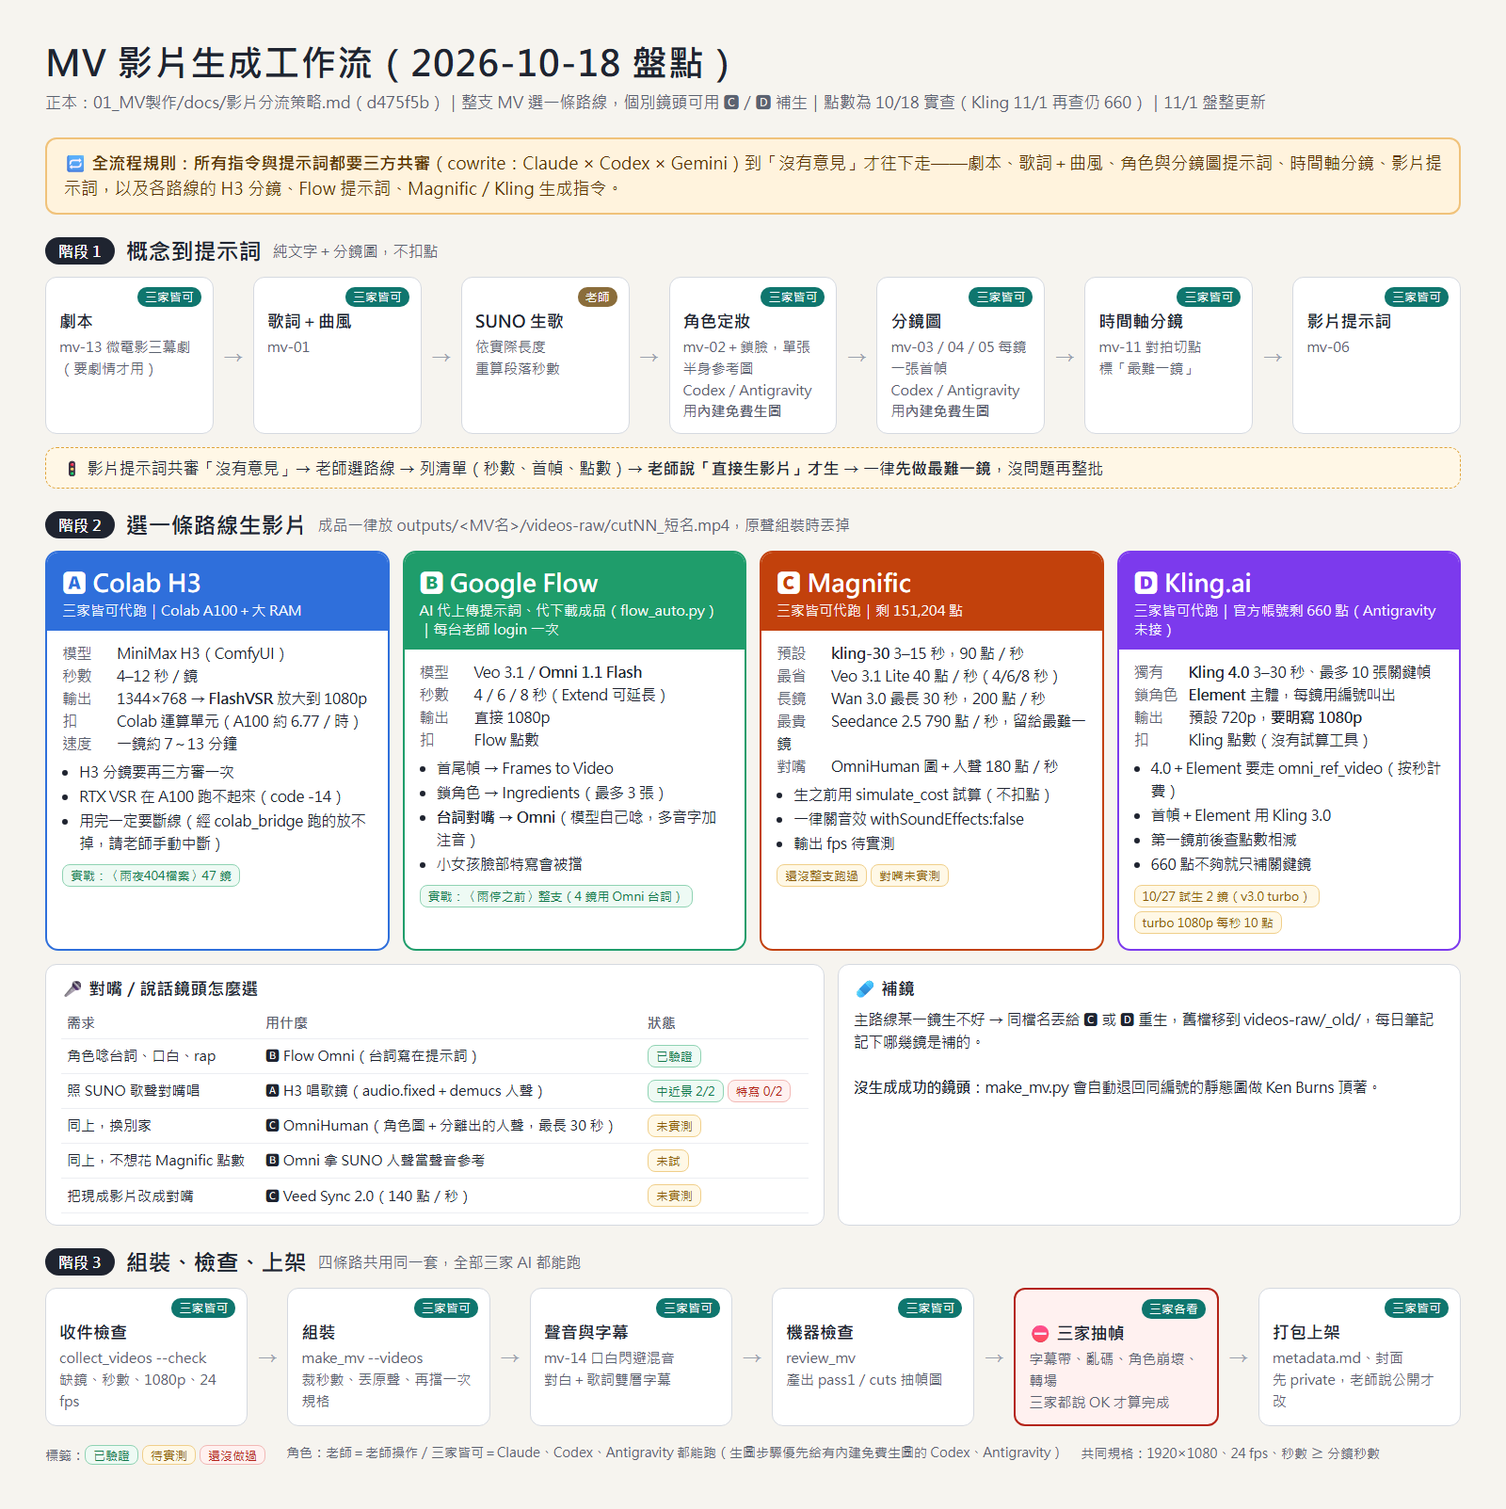
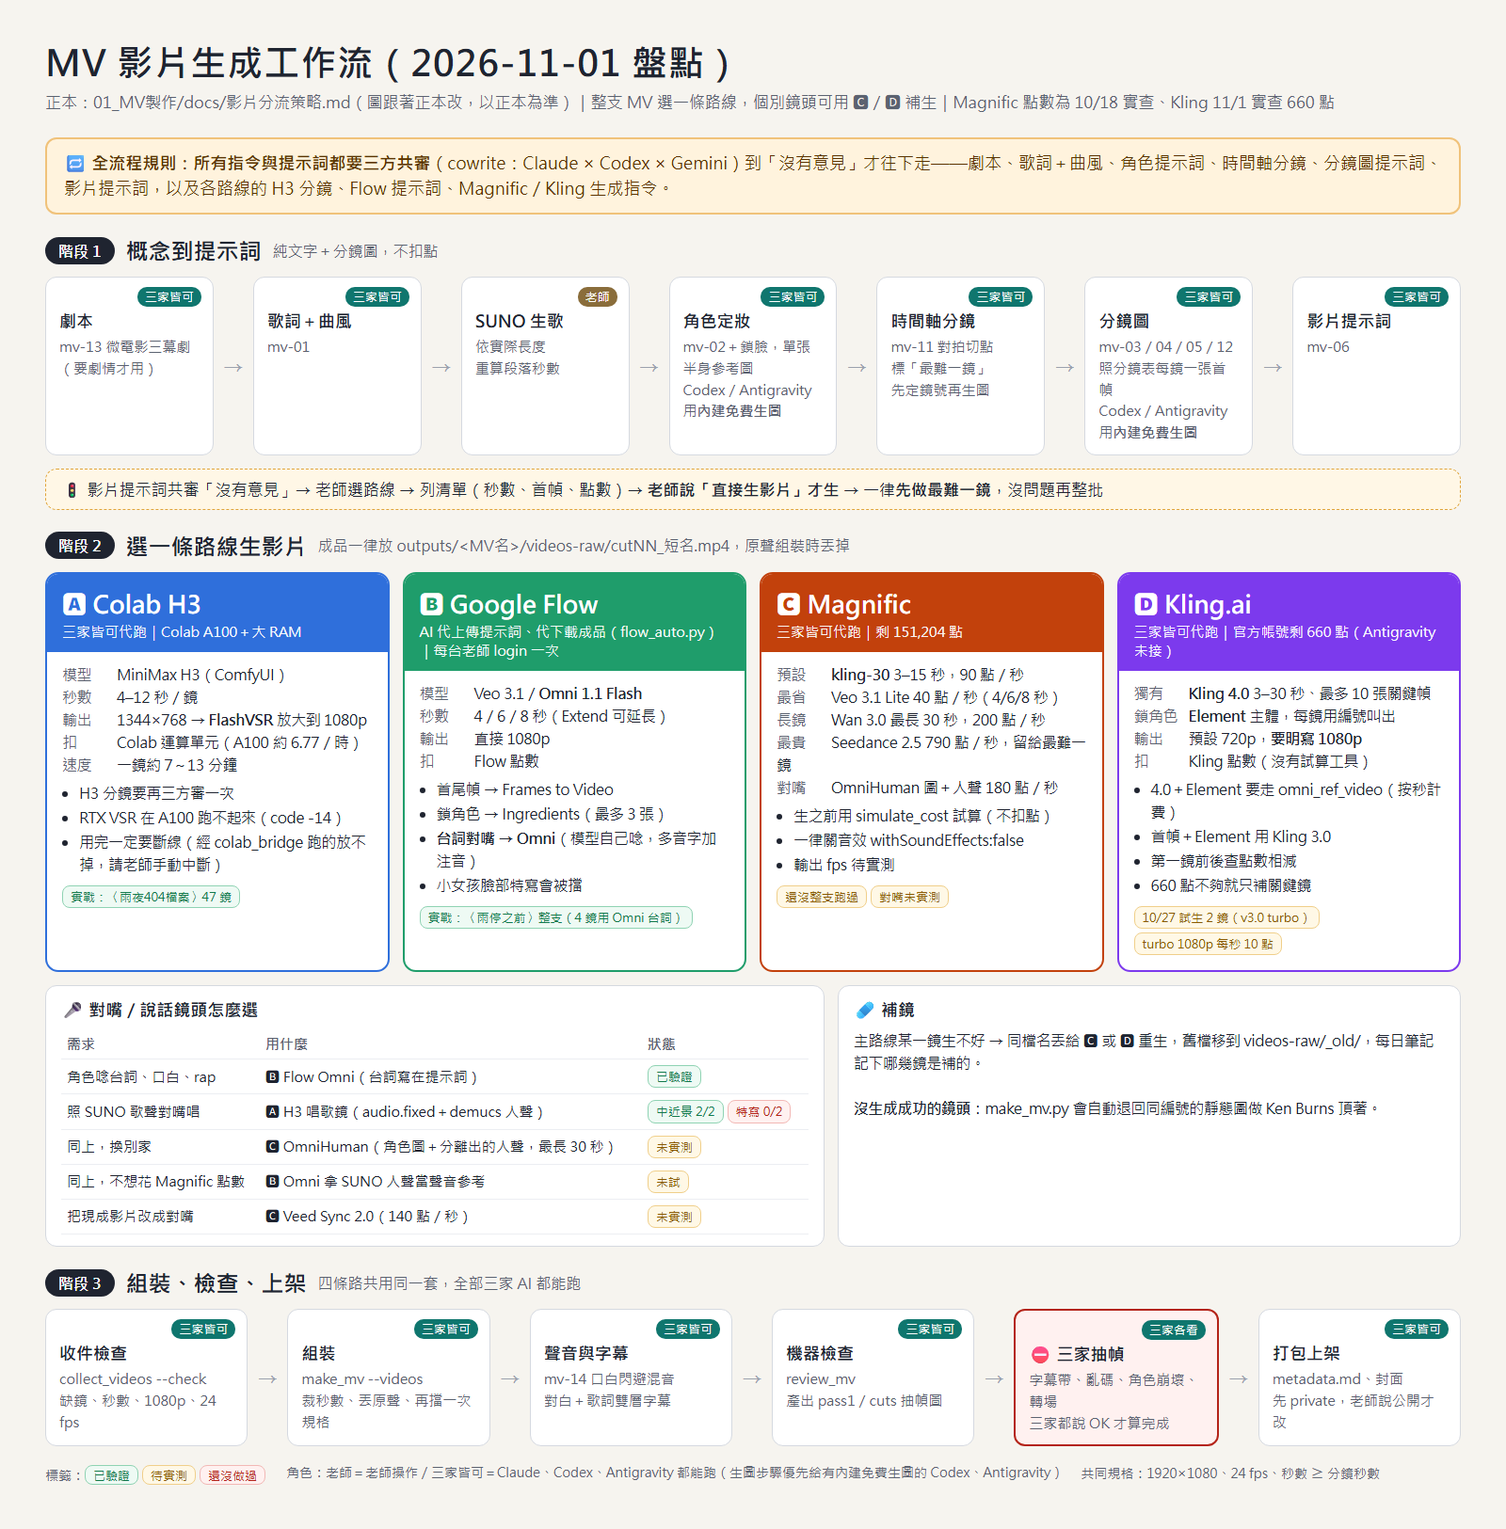
統一「先定分鏡表再生分鏡圖」，並修盤點剩下的 5 個小問題
- 順序（2026-11-01 老師定）：主角造型 → 時間軸分鏡表 → 分鏡圖 → 影片提示詞；分流策略、README、流程圖、MV_WORKFLOW_GUIDE 一起改
- 專案範本補 8🅲 Magnific、8🅳 Kling.ai 兩列
- AGENTS.md：MV_11 輸出 storyboard_vN.md 三支腳本共用；MV_12 檔名改 cutNN_*
- 分流策略：MCP 機器清單只寫實查過的（家裡用筆電 11-01 已連上），其他台標未查
- 流程圖：標題改 11-01 盤點、拿掉會過期的 commit 編號，重產 PNG

diff --git a/docs/影片生成工作流.html b/docs/影片生成工作流.html
@@ -49,18 +49,18 @@ th{color:var(--sub);font-weight:600}
 .legend{margin-top:18px;color:var(--sub);font-size:14px;display:flex;gap:18px;flex-wrap:wrap}
 </style></head><body><div class="wrap">
 
-<h1>MV 影片生成工作流（2026-10-18 盤點）</h1>
-<div class="meta">正本：01_MV製作/docs/影片分流策略.md（d475f5b）｜整支 MV 選一條路線，個別鏡頭可用 🅲／🅳 補生｜點數為 10/18 實查（Kling 11/1 再查仍 660）｜11/1 盤整更新</div>
+<h1>MV 影片生成工作流（2026-11-01 盤點）</h1>
+<div class="meta">正本：01_MV製作/docs/影片分流策略.md（圖跟著正本改，以正本為準）｜整支 MV 選一條路線，個別鏡頭可用 🅲／🅳 補生｜Magnific 點數為 10/18 實查、Kling 11/1 實查 660 點</div>
 
-<div class="rule">🔁 <b>全流程規則：所有指令與提示詞都要三方共審</b>（cowrite：Claude × Codex × Gemini）到「沒有意見」才往下走——劇本、歌詞＋曲風、角色與分鏡圖提示詞、時間軸分鏡、影片提示詞，以及各路線的 H3 分鏡、Flow 提示詞、Magnific／Kling 生成指令。</div>
+<div class="rule">🔁 <b>全流程規則：所有指令與提示詞都要三方共審</b>（cowrite：Claude × Codex × Gemini）到「沒有意見」才往下走——劇本、歌詞＋曲風、角色提示詞、時間軸分鏡、分鏡圖提示詞、影片提示詞，以及各路線的 H3 分鏡、Flow 提示詞、Magnific／Kling 生成指令。</div>
 <div class="stage"><span class="no">階段 1</span><span class="t">概念到提示詞</span><span class="s">純文字＋分鏡圖，不扣點</span></div>
 <div class="row">
   <div class="step"><span class="who m">三家皆可</span><b>劇本</b><span>mv-13 微電影三幕劇<br>（要劇情才用）</span></div><div class="arrow">→</div>
   <div class="step"><span class="who m">三家皆可</span><b>歌詞＋曲風</b><span>mv-01</span></div><div class="arrow">→</div>
   <div class="step"><span class="who t">老師</span><b>SUNO 生歌</b><span>依實際長度<br>重算段落秒數</span></div><div class="arrow">→</div>
   <div class="step"><span class="who m">三家皆可</span><b>角色定妝</b><span>mv-02＋鎖臉，單張半身參考圖<br>Codex／Antigravity 用<b style="display:inline;font-size:15px;margin:0">內建免費生圖</b></span></div><div class="arrow">→</div>
-  <div class="step"><span class="who m">三家皆可</span><b>分鏡圖</b><span>mv-03／04／05 每鏡一張首幀<br>Codex／Antigravity 用<b style="display:inline;font-size:15px;margin:0">內建免費生圖</b></span></div><div class="arrow">→</div>
-  <div class="step"><span class="who m">三家皆可</span><b>時間軸分鏡</b><span>mv-11 對拍切點<br>標「最難一鏡」</span></div><div class="arrow">→</div>
+  <div class="step"><span class="who m">三家皆可</span><b>時間軸分鏡</b><span>mv-11 對拍切點<br>標「最難一鏡」<br>先定鏡號再生圖</span></div><div class="arrow">→</div>
+  <div class="step"><span class="who m">三家皆可</span><b>分鏡圖</b><span>mv-03／04／05／12 照分鏡表每鏡一張首幀<br>Codex／Antigravity 用<b style="display:inline;font-size:15px;margin:0">內建免費生圖</b></span></div><div class="arrow">→</div>
   <div class="step"><span class="who m">三家皆可</span><b>影片提示詞</b><span>mv-06</span></div>
 </div>
 <div class="gate">🚦 影片提示詞共審「沒有意見」→ 老師選路線 → 列清單（秒數、首幀、點數）→ <b>老師說「直接生影片」才生</b> → 一律<b>先做最難一鏡</b>，沒問題再整批</div>

diff --git a/.claude/skills/MV_WORKFLOW_GUIDE/SKILL.md b/.claude/skills/MV_WORKFLOW_GUIDE/SKILL.md
@@ -26,21 +26,23 @@ author: 羅東國小資訊組長
 | 1⃣ | **MV_01** 歌詞與曲風構思 | 創作歌詞、風格描述 | Claude | 30-60 分 |
 | 2⃣ | **（使用者自己做）** | 在 SUNO 生成音樂，拿到歌後依實際長度重算秒數 | SUNO 官網 | 30-60 分 |
 | 3⃣ | **MV_02** 主角造型設計 | 設計角色、主場景與信物錨點 | Claude | 20-40 分 |
-| 4⃣ | **MV_03** 影像提示詞生成 | 撰寫場景描述 | Claude | 20-30 分 |
-| 5⃣ | **MV_04** 九宮格分鏡設計 | 生成 9 張分鏡圖 | Claude | 30-45 分 |
-| 6⃣ | **MV_05** 截圖放大提質 | 選擇和放大重點 | Claude | 10-20 分 |
-| 7⃣ | **MV_06** 影片提示詞生成 | 靜態→動態效果（含正反打視線配對） | Claude | 20-30 分 |
-| 8⃣ | **影片分流**（🅰／🅱／🅲／🅳） | 生影片：整支選一條路線，難鏡可用 🅲／🅳 補生 | 看 `docs/影片分流策略.md`（唯一正本） | 依路線與鏡數 |
-| 9⃣ | **MV_07** Q 版圖片設計 | 簡報或周邊插圖 | Claude+AI | 15-25 分（可選） |
-| 🔟 | **MV_08** 空拍圖與運鏡生成 | 無人機視角和運鏡 | Claude+AI | 20-30 分（可選） |
-| 1⃣1⃣ | **MV_09** Google Flow 微電影 | 首尾幀無縫轉場 | Claude+工具 | 25-35 分（可選） |
-| 1⃣2⃣ | **MV_10** 電影感打光指令集 | 參考打光風格 | 參考表 | 自選 |
-| 1⃣3⃣ | **MV_11** 時間軸分鏡腳本 | 依歌詞與能量切分鏡（含片頭/片尾戲） | Whisper＋ffmpeg | 20-40 分 |
-| 1⃣4⃣ | **MV_12** 分鏡批次生圖 | 先試 1–2 鏡，再整批生圖 | Cloudflare／Pollinations | 10-30 分 |
-| 1⃣5⃣ | **MV_14** 微電影聲音設計與混音 | 口白 TTS、CC0 環境音、Ducking 閃避混音 | TTS＋ffmpeg | 20-30 分（微電影必選） |
-| 1⃣6⃣ | **交件前檢查與組裝** | `collect_videos.py --check` → `make_mv.py` → `review_mv.py` | 三支共用同一份分鏡表 | 30-60 分 |
-| 1⃣6⃣⛔ | **抽幀停損點** | 三家各自開 `review/` 兩張圖親眼看，都說 OK 才算完成 | Claude／Codex／Antigravity | 視鏡數 |
-| 1⃣7⃣ | **YouTube 發布工具** | 準備上傳資料；取得當次同意後才上傳 | 已驗證的上傳管道 | 視處理時間而定 |
+| 4⃣ | **MV_11** 時間軸分鏡腳本 | 依歌詞與能量切分鏡（含片頭/片尾戲） | Whisper＋ffmpeg | 20-40 分 |
+| 5⃣ | **MV_03** 影像提示詞生成 | 撰寫場景描述 | Claude | 20-30 分 |
+| 6⃣ | **MV_04** 九宮格分鏡設計 | 生成 9 張分鏡圖 | Claude | 30-45 分 |
+| 7⃣ | **MV_12** 分鏡批次生圖 | 先試 1–2 鏡，再整批生圖 | Cloudflare／Pollinations | 10-30 分 |
+| 8⃣ | **MV_05** 截圖放大提質 | 選擇和放大重點 | Claude | 10-20 分 |
+| 9⃣ | **MV_06** 影片提示詞生成 | 靜態→動態效果（含正反打視線配對） | Claude | 20-30 分 |
+| 🔟 | **影片分流**（🅰／🅱／🅲／🅳） | 生影片：整支選一條路線，難鏡可用 🅲／🅳 補生 | 看 `docs/影片分流策略.md`（唯一正本） | 依路線與鏡數 |
+| 1⃣1⃣ | **MV_14** 微電影聲音設計與混音 | 口白 TTS、CC0 環境音、Ducking 閃避混音 | TTS＋ffmpeg | 20-30 分（微電影必選） |
+| 1⃣2⃣ | **交件前檢查與組裝** | `collect_videos.py --check` → `make_mv.py` → `review_mv.py` | 三支共用同一份分鏡表 | 30-60 分 |
+| 1⃣2⃣⛔ | **抽幀停損點** | 三家各自開 `review/` 兩張圖親眼看，都說 OK 才算完成 | Claude／Codex／Antigravity | 視鏡數 |
+| 1⃣3⃣ | **YouTube 發布工具** | 準備上傳資料；取得當次同意後才上傳 | 已驗證的上傳管道 | 視處理時間而定 |
+| ➕ | **MV_07** Q 版圖片設計 | 簡報或周邊插圖 | Claude+AI | 15-25 分（可選） |
+| ➕ | **MV_08** 空拍圖與運鏡生成 | 無人機視角和運鏡 | Claude+AI | 20-30 分（可選） |
+| ➕ | **MV_09** Google Flow 微電影 | 首尾幀無縫轉場 | Claude+工具 | 25-35 分（可選） |
+| ➕ | **MV_10** 電影感打光指令集 | 參考打光風格 | 參考表 | 自選 |
+
+> 表格依現行順序排（2026-11-01 老師定：**先定時間軸分鏡表，再生分鏡圖**）：主角造型 → 時間軸分鏡表 → 分鏡圖 → 影片提示詞 → 影片分流 → 交件；➕ 是可選或參考用模組，不在主線上。
 
 > MV_11 + MV_12 是「Ken Burns 靜圖 MV」快速路線：歌曲 → 時間軸分鏡 → 免費批次生圖 → ffmpeg 組裝，
 > 全程零生圖費用，適合校園歌曲、畢業歌等輕量專案。組裝用 `scripts/make_mv.py`（01_MV製作 專案內）；素材與成品放 01_MV製作 `outputs/<MV名>/`。
@@ -63,8 +65,8 @@ author: 羅東國小資訊組長
 2. 用 **MV_01** 創作歌詞與 SUNO 英文曲風描述
 3. **由使用者自己在 SUNO 生成音樂**；拿到歌之後依實際長度重算各段秒數
 4. 用 **MV_02** 設計主角造型（產出一致性參考詞；另出**單張半身參考圖**當角色參考，不要用左右分割定妝圖）
-5. 用 **MV_03** 寫場景影像提示詞 → **MV_04** 各自生成 9 張分鏡圖 → **MV_05** 挑重點放大（放大方式照 MV_05 的分流表選，代選前先問使用者）
-6. 用 **MV_11** 產出 `outputs/<MV名>/storyboard_vN.md`（**所有腳本共用這一份，不要各自改秒數**），並標出「最難一鏡」
+5. 用 **MV_11** 產出 `outputs/<MV名>/storyboard_vN.md`（**所有腳本共用這一份，不要各自改秒數**），並標出「最難一鏡」（**先定分鏡表再生圖**，鏡號 `cutNN` 從這裡來）
+6. 用 **MV_03** 寫場景影像提示詞 → **MV_04**／**MV_12** 照分鏡表逐鏡生成分鏡圖（檔名 `cutNN_*`） → **MV_05** 挑重點放大（放大方式照 MV_05 的分流表選，代選前先問使用者）
 7. 用 **MV_06** 寫影片提示詞 → **cowrite 審核模式**跑到三家「無意見」，再交給使用者看過
 8. **選一條影片分流路線**（整支 MV 選一條，個別難鏡可用 🅲／🅳 補生）：
    🅰 Colab H3／🅱 Google Flow（`flow_auto.py`）／🅲 Magnific／🅳 Kling.ai

diff --git a/docs/影片分流策略.md b/docs/影片分流策略.md
@@ -13,7 +13,7 @@
 
 ## 全流程規則：所有指令與提示詞都三方共審（2026-10-18 老師定）
 
-整個工作流**每一步產出的指令與提示詞**，都要用 cowrite 三方共審（Claude × Codex × Gemini）到「沒有意見」才往下走：劇本、歌詞＋曲風、角色與分鏡圖的生圖提示詞、時間軸分鏡、影片提示詞，以及各路線的 H3 分鏡（🅰）、Flow 提示詞（🅱）、Magnific／Kling 的生成指令（🅲／🅳）。共審完還是要交給老師看過才生成。
+整個工作流**每一步產出的指令與提示詞**，都要用 cowrite 三方共審（Claude × Codex × Gemini）到「沒有意見」才往下走：劇本、歌詞＋曲風、角色的生圖提示詞、時間軸分鏡、分鏡圖的生圖提示詞、影片提示詞，以及各路線的 H3 分鏡（🅰）、Flow 提示詞（🅱）、Magnific／Kling 的生成指令（🅲／🅳）。共審完還是要交給老師看過才生成。
 
 ## 生影片之前，誰來跑（2026-10-18 老師定）
 
@@ -21,8 +21,10 @@
 |---|---|---|
 | 劇本（mv-13）、歌詞＋曲風（mv-01） | Claude／Codex／Antigravity 皆可 | |
 | SUNO 生歌 | 老師 | 生完依實際長度重算段落秒數 |
-| 角色定妝（mv-02）、分鏡圖（mv-03／04／05） | Claude／Codex／Antigravity 皆可 | 要生圖的步驟**優先給 Codex、Antigravity**，它們有內建的免費生圖；Claude 照舊走免費管道（Cloudflare → Pollinations → Vertex） |
-| 時間軸分鏡（mv-11）、影片提示詞（mv-06） | Claude／Codex／Antigravity 皆可 | |
+| 角色定妝（mv-02） | Claude／Codex／Antigravity 皆可 | 要生圖的步驟**優先給 Codex、Antigravity**，它們有內建的免費生圖；Claude 照舊走免費管道（Cloudflare → Pollinations → Vertex） |
+| 時間軸分鏡（mv-11） | Claude／Codex／Antigravity 皆可 | **先定分鏡表再生分鏡圖**（2026-11-01 老師定）：鏡數、秒數、`cutNN` 編號先定，分鏡圖才對得上鏡號、當得了 🅰 首幀 |
+| 分鏡圖（mv-03／04／05／12） | Claude／Codex／Antigravity 皆可 | 照分鏡表逐鏡生，檔名 `cutNN_*`；生圖分工同角色定妝 |
+| 影片提示詞（mv-06） | Claude／Codex／Antigravity 皆可 | |
 
 不管誰跑，產出都要照同一份 skill 的格式、放同一個位置，下一步才接得上。
 
@@ -311,8 +313,10 @@ python scripts/review_mv.py outputs/<MV名>/<MV名>_完整MV.mp4 --music <歌.mp
 | 每鏡秒數 | 4–12 | Omni 4／6／8／10；Lite 固定 8（Extend 可更長） | `kling-30` 3–15 任選 | Kling 4.0 3–30、3.0 3–15 |
 | 輸出 | 1344×768，要 FlashVSR 放大 | 1080p | 1080p（fps 待實測） | 1080p（要明寫；fps 待實測） |
 | 扣什麼 | Colab 運算單元 | Flow 點數 | Magnific 點數（`kling-30` 約 90 點／秒） | Kling 點數（每鏡多少待實測，帳號只剩 660 點） |
-| 哪些機器能跑 | 看 Colab 連得上的機器 | **已經 `flow_auto.py login` 過的那台**（登入狀態在本機 `%LOCALAPPDATA%`，不跟 Drive 同步，每台各自登一次） | 有接 Magnific MCP 的（2026-10-18 只有家裡用筆電） | 有接 Kling MCP 的（2026-10-18 只有家裡用筆電） |
+| 哪些機器能跑 | 看 Colab 連得上的機器 | **已經 `flow_auto.py login` 過的那台**（登入狀態在本機 `%LOCALAPPDATA%`，不跟 Drive 同步，每台各自登一次） | 有接 Magnific MCP 的（已確認：家裡用筆電；其他台沒查過，用前先 `claude mcp list`） | 有接 Kling MCP 的（已確認：家裡用筆電；其他台沒查過，用前先 `claude mcp list`） |
 | 實戰紀錄 | 〈雨夜404檔案〉47 鏡，已上架 | 〈雨停之前〉整支（4 鏡 Omni 台詞）；`flow_auto.py` 10-30 實生 cut07 兩次驗證過 | 還沒整支跑過；10-27 用 Veo 3.1 Lite 試〈半張車票〉兩鏡 | 還沒整支跑過；10-27 用 `kling-video-v3_0_turbo` 生〈半張車票〉cut01／cut24（每秒 10 點） |
+
+> 📋 **MCP 接線狀態**（2026-11-01 家裡用筆電 `claude mcp list` 實查）：`magnific`、`klingai` 都是 ✔ Connected（Claude Code）。其他四台、以及 Codex／Antigravity 這次沒查；MCP 設定不走 chezmoi，**要在某台代跑 🅲／🅳 之前，先在那台跑 `claude mcp list`（Codex 看 `~/.codex/config.toml`）確認**，沒接就照記憶 magnific-video-music-only、kling-mcp-setup 接好再跑。
 
 ## 參考
 

diff --git a/MV專案範本/README.md b/MV專案範本/README.md
@@ -17,6 +17,8 @@
 | 7 | 選路線 | 老師決定整支 MV 走 🅰 Colab H3、🅱 Google Flow、🅲 Magnific 或 🅳 Kling.ai | 寫在 `brief.md` 最後一行 | [ ] |
 | 8🅰 | H3 分鏡審核 → 拆檔 → 清單 → 生成 → 放大 → 搬回 | `--flow mv-h3`、`h3_specs_from_review.py`、`h3_guard.py`（守護會自己叫 h3_batch.py）、`collect_videos.py` | `videos-raw/cutNN_*.mp4` | [ ] |
 | 8🅱 | Flow 提示詞審核 → AI 用 `flow_auto.py` 上傳首幀與提示詞、送出生成、下載 → 放回 | `--flow mv-flow`、`flow_auto.py run`、`collect_videos.py --check` | `videos-raw/cutNN_*.mp4` | [ ] |
+| 8🅲 | Magnific：選模型＋`simulate_cost` 試算 → 清單（含點數）→ 最難一鏡 → 整批 → 下載改名放回 | Magnific MCP（`video_generate`，1080p、`withSoundEffects: false`）、`collect_videos.py --check` | `videos-raw/cutNN_*.mp4` | [ ] |
+| 8🅳 | Kling.ai：查點數 → （要鎖角色才）建 Element → 上傳首幀 → 清單 → 最難一鏡量點數 → 整批 → 下載改名放回 | Kling MCP（`image_to_video`／`omni_ref_video`，**要明寫 1080p**）、`collect_videos.py --check` | `videos-raw/cutNN_*.mp4` | [ ] |
 | 9 | 組裝 1080p | `make_mv.py --videos --storyboard --size 1920x1080` | `{{MV名}}_完整MV.mp4` | [ ] |
 | 10 | 自動檢查 | `review_mv.py --storyboard` | `review/` | [ ] |
 | 11 | ⛔ **三家抽幀**（字幕淨空／亂碼／角色／轉場） | Claude／Codex／Antigravity 各自看 `review/*_pass1.jpg`、`*_cuts.jpg` | 三家都說 OK → 記日期與各家結論 | [ ] |

diff --git a/AGENTS.md b/AGENTS.md
@@ -215,7 +215,7 @@
 3. 依音樂節奏切分鏡頭，每個鏡頭標註：起訖秒數、對應歌詞、畫面描述、運鏡。
 4. 切點對齊歌詞與能量轉折，避免固定秒數硬切。
 
-輸出：一份可直接對照 FFmpeg 組裝腳本的分鏡表（檔名前綴與生圖／組裝一致）。
+輸出：`outputs/<MV名>/storyboard_vN.md`，鏡號 `cutNN`。`collect_videos.py`、`make_mv.py`、`review_mv.py` 三支腳本都讀這一份（`scripts/storyboard_md.py` 解析），**不要各自改秒數**；並在表下方標出「最難一鏡」。
 
 ---
 
@@ -225,9 +225,9 @@
 
 **流程：**
 1. 讀取分鏡表中每個鏡頭的提示詞。
-2. 逐一送生圖管道產圖（免費管道：Cloudflare Workers AI 優先、Pollinations 備援）。
-3. 檔名以鏡頭序號為前綴（例：`01_`、`02_`），確保與組裝腳本順序一致。
-4. 檢查角色一致性與色調統一。
+2. 逐一送生圖管道產圖（Codex／Antigravity 用內建免費生圖；Claude 走 Cloudflare Workers AI → Pollinations 備援）；先交提示詞，老師說「直接生圖」才生。
+3. 檔名用分鏡表的鏡號當前綴：`cutNN_場景關鍵字`（例：`cut06_crayon_circle`），要跟 `storyboard_vN.md` 的 cut 編號對齊；當 🅰 首幀時改名 `cutNN_first.png`。
+4. 先試做 1–2 鏡確認風格再整批；生完拼成總覽圖檢查角色一致性與色調統一（當首幀時就是 🅰 第 3.5 步的首幀組圖審查）。
 
 ---
 

diff --git a/README.md b/README.md
@@ -7,7 +7,9 @@ AI MV 製作工具箱：14 支 MV skill 的專案副本、三方共審接點、C
 ```
 新專案       python scripts/new_mv.py "<MV名>"  → outputs/<MV名>/（照裡面 README 的進度檢核做）
 企劃～影片提示詞  15_ai共筆工作流 cowrite --flow mv（影片提示詞為審核模式，三家「無意見」）
-分鏡表       mv-11 → outputs/<MV名>/storyboard_vN.md（所有腳本共用）
+           實際順序：企劃 → 歌詞曲風 → 老師 SUNO 生歌 → 主角造型 → 分鏡表 → 分鏡圖 → 影片提示詞
+分鏡表       mv-11 → outputs/<MV名>/storyboard_vN.md（所有腳本共用；先定分鏡表再生分鏡圖，2026-11-01 老師定）
+分鏡圖       mv-03／04／05／12 照分鏡表逐鏡生，檔名 cutNN_*（老師說「直接生圖」才生）
 影片分流 🅰  Colab H3：--flow mv-h3 審核 → h3_specs_from_review.py → h3_guard.py（守護會自己叫 h3_batch.py；三家皆可經 colab_bridge.py 代跑）
          🅱  Google Flow：--flow mv-flow 審核 → flow_auto.py run jobs.json --go（三家皆可代跑；該台先 login 一次）
          🅲  Magnific／🅳 Kling.ai：三家皆可經 MCP 代跑（細節見分流文件）
